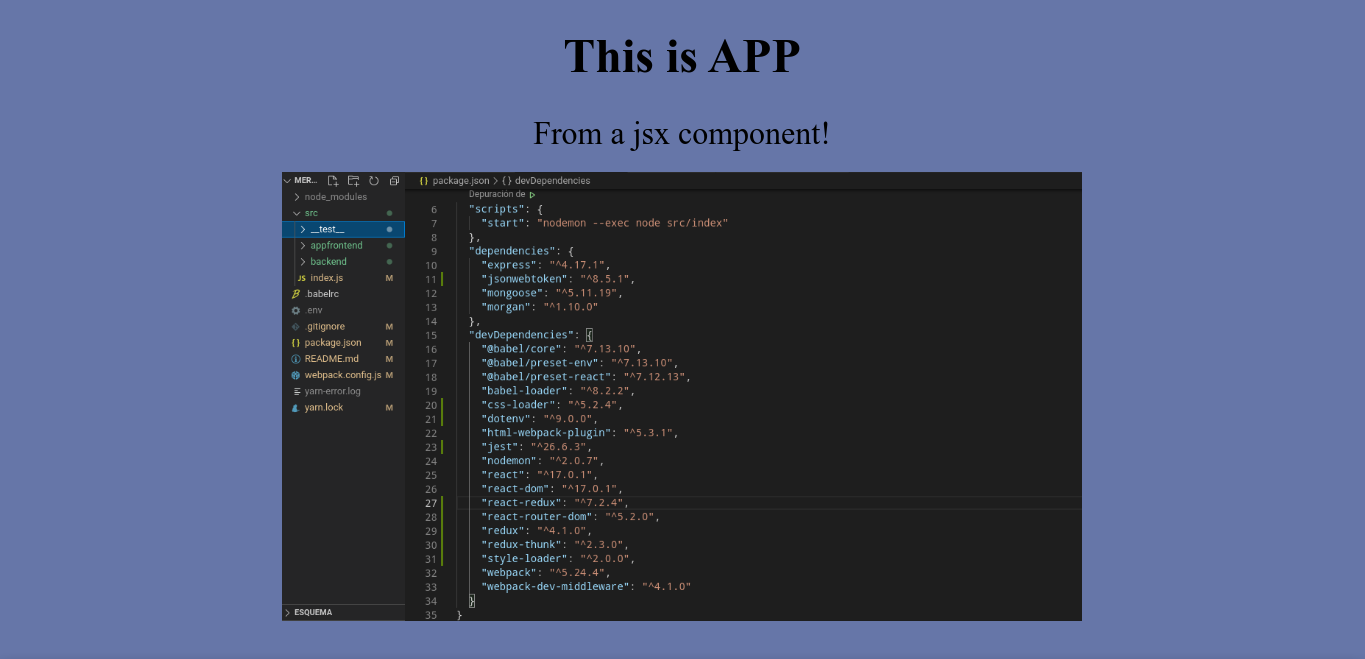
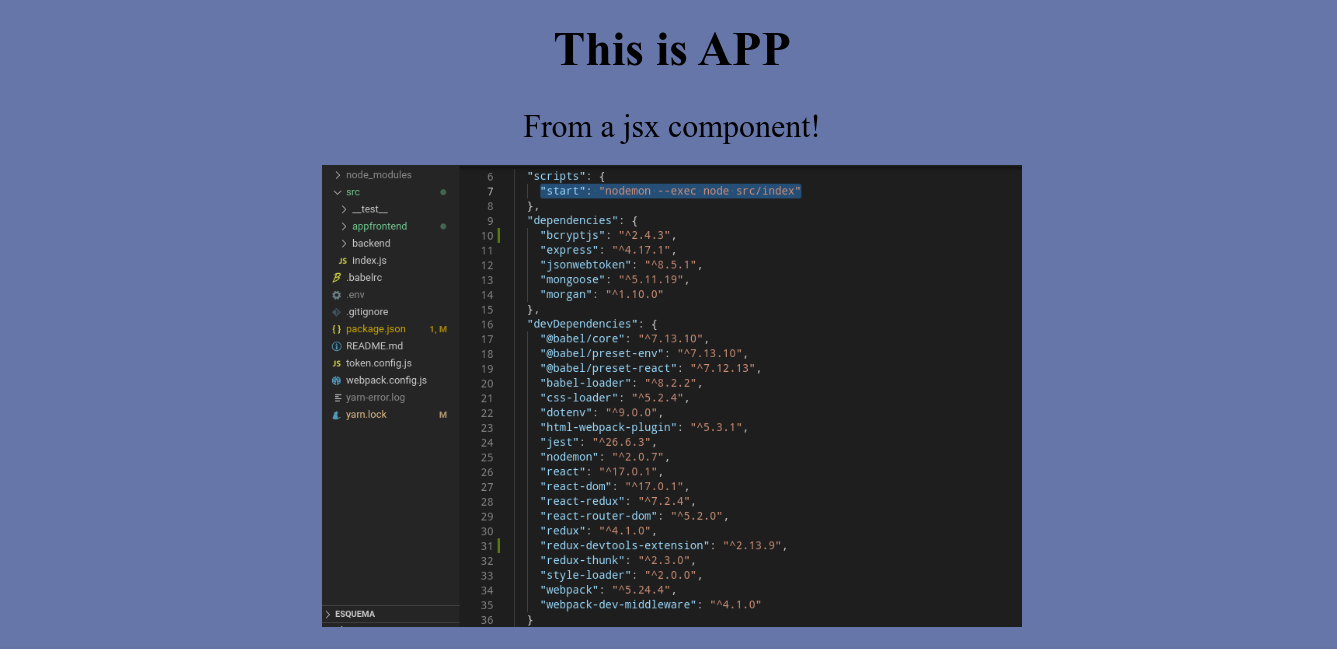
Updated 08-05-21

Changed region(s): [[0.184, 0.1849, 0.7973, 0.9861], [0.3987, 0.0308, 0.6133, 0.1233], [0.552, 0.832, 0.5826, 0.8629]]

diff --git a/src/appfrontend/App.js b/src/appfrontend/App.js
@@ -1,14 +1,18 @@
 import React from 'react';
+import { Provider } from 'react-redux';
+import store from './redux/store';
 import { JsxComponent } from './components/JsxComponent.jsx';
 import '../appfrontend/assets/App.css';
 import img from './assets/img.png'
 
 export default function App(){
     return(
-        <div className="App">
-            <h1> This is APP</h1>
-            <JsxComponent/>
-            <img className="img" src={img} />
-        </div>
+        <Provider store={store}>
+            <div className="App">
+                <h1> This is APP</h1>
+                <JsxComponent/>
+                <img className="img" src={img} />
+            </div>
+        </Provider>
     );
 }

diff --git a/src/backend/models/model.js b/src/backend/models/model.js
@@ -1,9 +1,21 @@
-const mongoose = require('mongoose');
-const { Schema } = mongoose;
+const { Schema, model } = require('mongoose');
+const bcrypt = require('bcryptjs')
+
 
 const UserSchema = new Schema({
     name: {type: String, required: true},
     password: {type: String, required: true}
+}, {
+    timestamps: true
 })
 
-module.exports = mongoose.model('User', UserSchema);
+UserSchema.methods.encryptPassword = async (password) =>{
+    const salt  = await bcrypt.genSalt(10);
+    return await bcrypt.hash(password, salt);
+}
+
+UserSchema.methods.matchPassword = async function(password){
+    return await bcrypt.compare(password, this.password)
+}
+
+module.exports = model('User', UserSchema);

diff --git a/src/appfrontend/redux/store.js b/src/appfrontend/redux/store.js
@@ -1,0 +1,9 @@
+import { applyMiddleware, createStore } from 'redux';
+import { composeWithDevTools } from 'redux-devtools-extension';
+import rootReducer from './reducers/rootReducer';
+import thunk from 'redux-thunk';
+
+const store = createStore(rootReducer, composeWithDevTools(
+    applyMiddleware(thunk)
+));
+export default store;

diff --git a/src/appfrontend/redux/reducers/indexReducer.js b/src/appfrontend/redux/reducers/indexReducer.js
@@ -1,0 +1,10 @@
+const initialState = {
+    state: 'redux connected'
+}
+
+const indexReducer = (state = initialState,action) =>{
+    switch(action.type){
+        default: return state
+    }
+}
+export default indexReducer;

diff --git a/src/index.js b/src/index.js
@@ -1,5 +1,5 @@
 require('dotenv').config();
-require('./backend/connectDbs/mongoconnect');
+//require('./backend/connectDbs/mongoconnect');
 const app = require('./backend/server');
 
 app.listen(app.get('port'), ()=>{

diff --git a/src/appfrontend/redux/reducers/rootReducer.js b/src/appfrontend/redux/reducers/rootReducer.js
@@ -1,0 +1,7 @@
+import { combineReducers } from 'redux';
+import indexReducer from './indexReducer'
+
+const rootReducer = combineReducers({
+    indexReducer
+})
+export default rootReducer;

diff --git a/src/appfrontend/assets/App.css b/src/appfrontend/assets/App.css
@@ -15,7 +15,7 @@ h1{
     margin-bottom: 20px;
 }
 .img{
-    width: 800px;
+    width: 700px;
     margin: 0 auto;
     justify-self: center;
 }

diff --git a/token.config.js b/token.config.js
@@ -1,0 +1,3 @@
+module.exports = {
+    secret: 'the secret word'
+}
